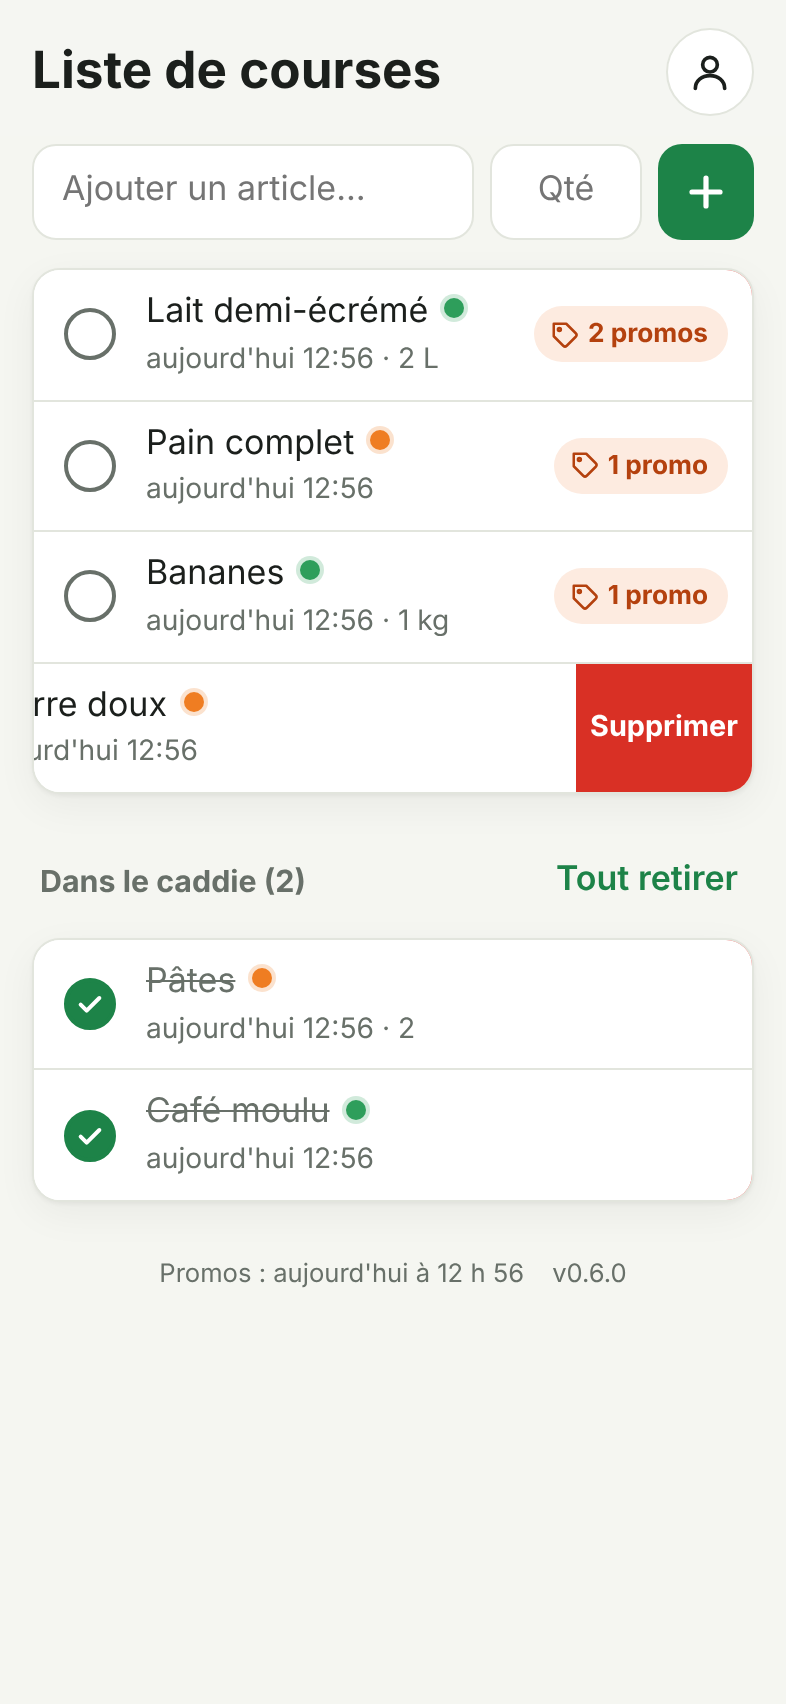
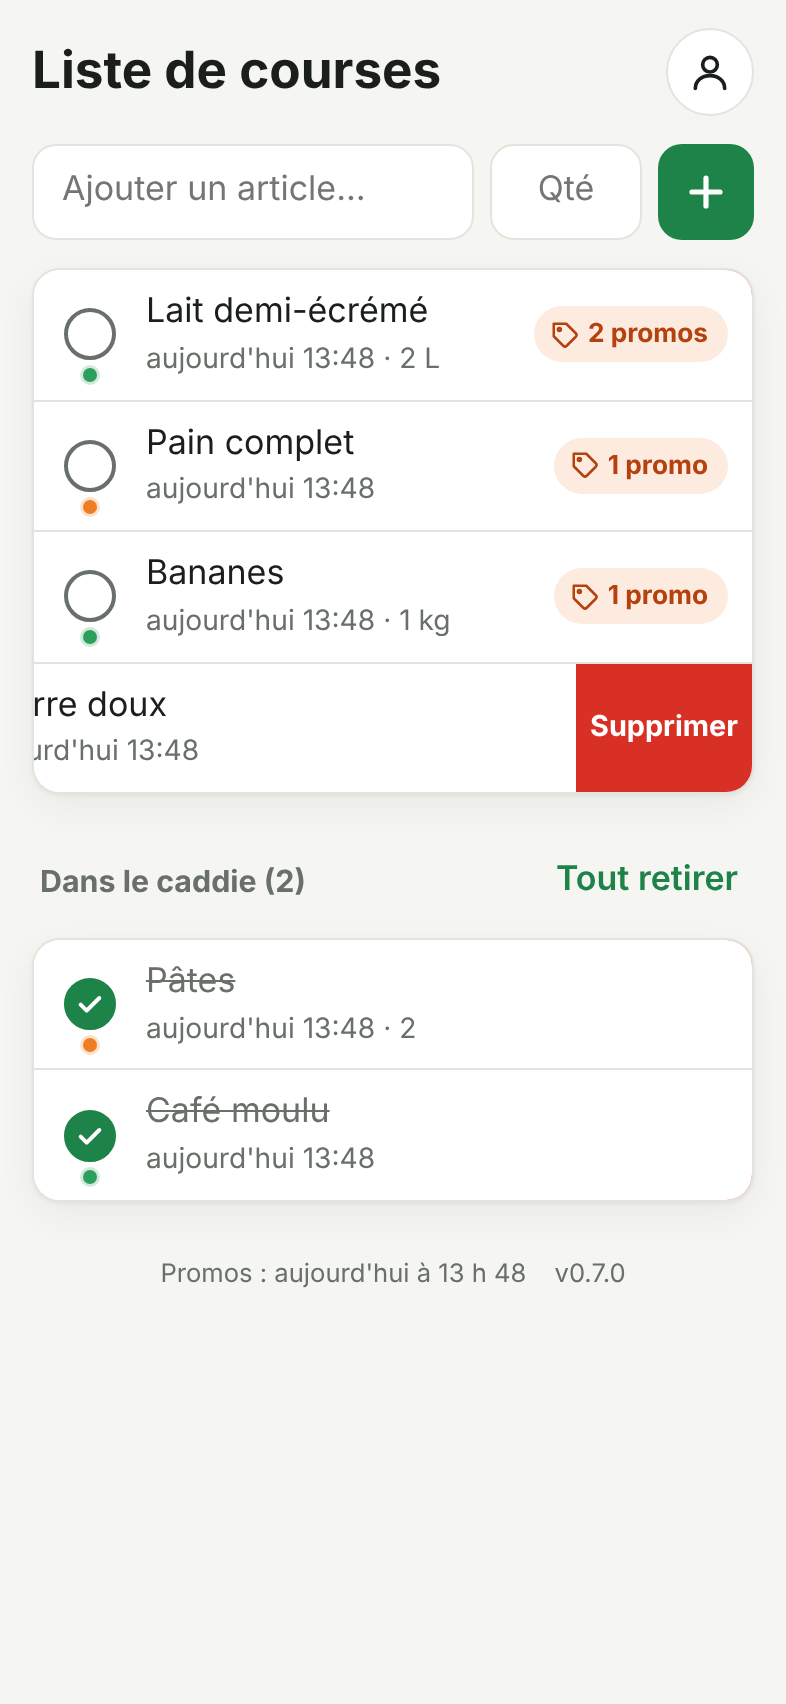
Appli 0.7 : la pastille de couleur sous le rond à cocher
Avec un nom d'article long, la pastille passait à la ligne sous le nom.
Elle est maintenant plus petite, juste sous le rond à cocher, toujours à
la même place. Captures et documentation à jour.

Claude-Session: https://claude.ai/code/session_01NExQydJf7Spos4MHk3nxW4

diff --git a/app/src/main.js b/app/src/main.js
@@ -184,9 +184,11 @@ function ligneArticle(article, promos = []) {
   caseACocher.addEventListener("click", () => {
     cocherArticle(db, article).catch(signalerErreur);
   });
-
-  // Le nom, la pastille de celui qui l'a ajouté, puis quand, la quantité et la note.
+  // Sous le rond : la pastille de celui qui a ajouté l'article.
   const auteur = auteurDe(article);
+  caseACocher.append(pastilleMembre(auteur.couleur));
+
+  // Le nom, puis quand il a été ajouté, la quantité et la note.
   const contenu = document.createElement("button");
   contenu.type = "button";
   contenu.className = "texte";
@@ -197,7 +199,6 @@ function ligneArticle(article, promos = []) {
   const nom = document.createElement("span");
   nom.className = "nom";
   nom.textContent = article.nom;
-  nom.append(pastilleMembre(auteur.couleur));
   contenu.append(nom);
   const details = [auteur.quand, article.quantite, article.note].filter(Boolean).join(" · ");
   if (details) {

diff --git a/app/src/style.css b/app/src/style.css
@@ -498,12 +498,25 @@ svg {
 }
 
 .case {
+  position: relative;
   flex: 0 0 56px;
   display: grid;
   place-items: center;
   border: 0;
   background: none;
   cursor: pointer;
+}
+
+/* La pastille de celui qui a ajouté l'article, juste sous le rond (qui reste bien centré). */
+.case .pastille-membre {
+  position: absolute;
+  top: calc(50% + 17px);
+  left: 50%;
+  width: 7px;
+  height: 7px;
+  margin: 0;
+  box-shadow: 0 0 0 1.5px color-mix(in srgb, var(--couleur) 22%, transparent);
+  transform: translateX(-50%);
 }
 
 .case svg {

diff --git a/README.md b/README.md
@@ -99,8 +99,9 @@ Une appli web pensée pour l'iPhone, publiée gratuitement par GitHub Pages :
 | ![Liste de courses : une pastille de couleur par personne et l'heure d'ajout](docs/captures/liste.png) | ![Les promos du lait chez Lidl et Leclerc](docs/captures/promos.png) | ![Recherche « lait » dans toutes les promos](docs/captures/recherche.png) | ![Mode sombre](docs/captures/liste-sombre.png) |
 
 - **Liste commune** : ce que l'un ajoute, coche ou supprime apparaît aussitôt sur l'autre téléphone.
-- **Qui et quand** : une pastille de couleur à côté de chaque article dit qui l'a ajouté (chacun
-  choisit son prénom et sa couleur dans « Mon compte ») ; dessous, la date et l'heure d'ajout.
+- **Qui et quand** : une petite pastille de couleur sous le rond à cocher dit qui a ajouté l'article
+  (chacun choisit son prénom et sa couleur dans « Mon compte ») ; sous le nom, la date et l'heure
+  d'ajout.
 - **Promos** : un article en promo chez Lidl ou Leclerc porte une étiquette « 2 promos ». En la
   touchant, on voit chaque promo : magasin, prix, prix au kilo, jusqu'à quand (ou à partir de quand)
   et, en clair, **où va la réduction** : déjà déduite en caisse, en prenant plusieurs, rendue sur la

diff --git a/CHANGELOG.md b/CHANGELOG.md
@@ -16,9 +16,9 @@ Tant que le projet est en `0.x`, il est en construction : le format peut encore 
 
 ### Ajouté
 
-- **Appli 0.7 : qui a ajouté quoi, et quand.** Une pastille de couleur à côté de chaque article
-  dit qui l'a ajouté ; dessous, la date et l'heure d'ajout (« aujourd'hui 13:38 », « hier 08:05 »,
-  « jeu. 09:15 », « 12/10 09:15 »). La fenêtre d'un article le rappelle (« Ajouté par …, … »).
+- **Appli 0.7 : qui a ajouté quoi, et quand.** Une petite pastille de couleur, sous le rond à
+  cocher, dit qui a ajouté l'article (même si son nom est long) ; sous le nom, la date et l'heure
+  d'ajout (« aujourd'hui 13:38 », « hier 08:05 », « jeu. 09:15 », « 12/10 09:15 »). La fenêtre d'un article le rappelle (« Ajouté par …, … »).
 - **Mon compte** : chacun écrit son prénom et choisit sa couleur parmi six, avec une légende qui
   rappelle qui a quelle couleur. Les fiches sont dans Firebase (nouvelle collection `membres`),
   jamais dans ce dépôt ; sans fiche, une couleur est donnée d'office.

diff --git a/docs/appli.md b/docs/appli.md
@@ -24,8 +24,8 @@ Les captures sont faites avec des promos d'exemple et des prénoms fictifs (Cami
   (même écrit différemment : « Lait demi-écrémé » = « lait demi ecreme »).
 - **Cocher** un article (le rond à gauche) : il passe dans « Dans le caddie ». Le décocher le remet
   dans la liste.
-- **Qui l'a ajouté, et quand** : à côté du nom, une **pastille de couleur** dit qui a ajouté
-  l'article ; dessous, la date et l'heure d'ajout (« aujourd'hui 13:38 », « hier 08:05 »,
+- **Qui l'a ajouté, et quand** : sous le rond à cocher, une petite **pastille de couleur** dit qui
+  a ajouté l'article ; sous le nom, la date et l'heure d'ajout (« aujourd'hui 13:38 », « hier 08:05 »,
   « jeu. 09:15 » cette semaine, « 12/10 09:15 » avant), puis la quantité et la note.
 - **Mon compte** (le bonhomme en haut à droite) : chacun écrit son **prénom** et choisit **sa
   couleur** parmi six ; la légende dessous rappelle qui a quelle couleur. Tant qu'un compte n'a pas
